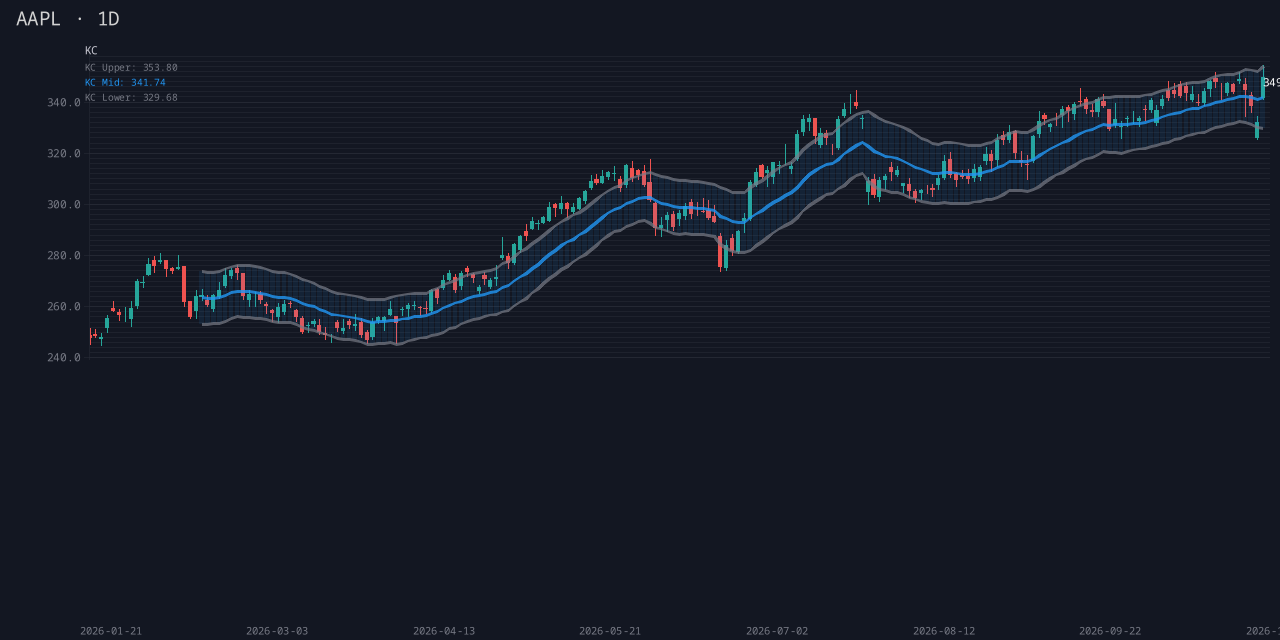
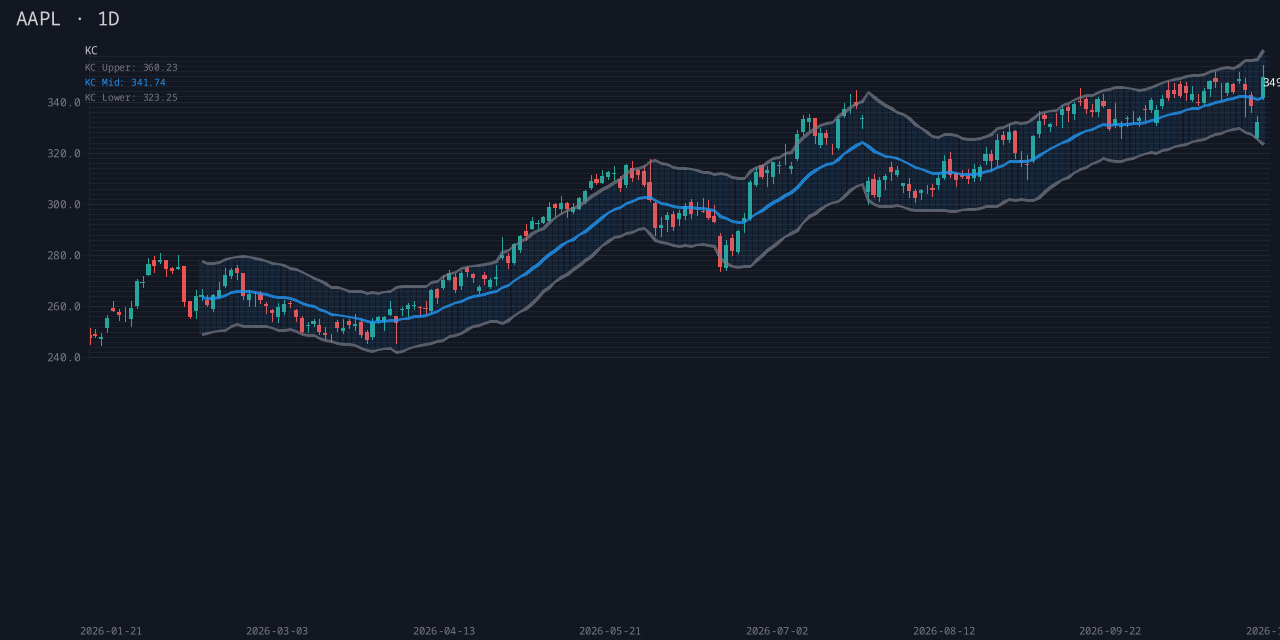
docs: ADR-0018 na rule, TradingView defaults, anchoring; screenshots
- ADR-0018: windowed helpers skip na (Pine reference), ema/rma hold
  across na (marked unverified against a live chart), drift-free sums,
  timeframe parsing, the table of default changes, output-shape changes.
- Indicator reference: updated 'Values match TradingView' section and
  regenerated params (keltner atr_length, vwap anchor, ichimoku
  displacement, new defaults).
- Re-rendered all affected screenshots; keltner, stoch, roc, histvol,
  vwap, vwap_bands, ichimoku and pivot changed (supertrend, sar and the
  composites render identically on the AAPL sample).

diff --git a/examples/gen_docs.rs b/examples/gen_docs.rs
@@ -53,33 +53,45 @@ fn main() {
          `src/indicators/pine.rs` ([ADR-0018](/chartgen/decisions/0018-pine-semantics-for-indicators/)).\n\
          `ta.ema` and `ta.rma` seed with the SMA of the first `length` values. RSI, ATR\n\
          and DMI/ADX use Wilder's RMA. Bollinger Bands use the population standard\n\
-         deviation. Bars before an indicator has a full window are `null` (NaN), not\n\
-         partial values. With the same parameters and the same first bar, the values\n\
-         equal TradingView's built-ins. The community composites (`cipher_b`,\n\
-         `wavetrend`, `rsi_mfi_stoch`, `kalman_volume`) follow the Pine semantics of\n\
-         the `ta.*` calls in the scripts they port.\n\
+         deviation. Defaults are TradingView's. Bars before an indicator has seen\n\
+         `length` valid values are `null` (NaN), not partial values. With the same\n\
+         parameters and the same first bar, the values equal TradingView's built-ins.\n\
+         The community composites (`cipher_b`, `wavetrend`, `rsi_mfi_stoch`,\n\
+         `kalman_volume`) follow the Pine semantics of the `ta.*` calls in the scripts\n\
+         they port.\n\
+         \n\
+         Missing values (`na`) follow the Pine reference. Window functions (`sma`,\n\
+         `sum`, `stdev`, `highest`, `lowest`, ...) skip them and use the last `length`\n\
+         valid values, so a flat stochastic or a zero-range bar leaves no gap. EMA and\n\
+         RMA keep their state across a missing value and repeat the previous value;\n\
+         that case is not yet verified against a live TradingView chart.\n\
          \n\
          EMA and RMA are recursive, so a value depends on where the series starts.\n\
          Load enough history before the bars you compare (`warmup` in series mode)\n\
          so the start-up effect has decayed. Known differences:\n\
          \n\
-         - **Defaults.** Some defaults differ from TradingView's: `keltner` uses 20 / 1.5\n\
-         \x20 with the ATR length equal to `period` (TV: multiplier 2, ATR length 10);\n\
-         \x20 `stoch` smooths %K over 3 bars (TV: 1); `roc` uses 14 (TV: 9); `histvol` uses\n\
-         \x20 20 (TV: 10); `vwap_bands` uses 2 standard deviations (TV: 1); `wavetrend`\n\
-         \x20 uses the Cipher B lengths 9 / 12 / 3 (LazyBear: 10 / 21 / 4). Set the same\n\
-         \x20 parameters on both sides to compare.\n\
-         - **Anchoring.** `vwap` and `vwap_bands` accumulate from the first loaded bar\n\
-         \x20 (TV resets every session). `pivot` uses the previous bar (TV uses the\n\
-         \x20 previous higher-timeframe period).\n\
-         - **Ichimoku.** The leading spans are shifted 25 bars forward like TV's, but\n\
-         \x20 the 25 projected future bars are not drawn, and there is no lagging span.\n\
+         - **WaveTrend lengths.** `wavetrend` is the WaveTrend inside VuManChu Cipher B\n\
+         \x20 and keeps its lengths 9 / 12 / 3 (LazyBear's script: 10 / 21 / 4).\n\
+         - **Calendar periods.** `vwap` / `vwap_bands` anchors and `pivot` periods\n\
+         \x20 are UTC days, ISO weeks, months and years of the bar times. TradingView\n\
+         \x20 uses the exchange session and time zone, which can differ for non-UTC\n\
+         \x20 markets. On daily and higher charts the `session` anchor resets on every\n\
+         \x20 bar, as TradingView's `timeframe.change(\"D\")` does. Without bar timestamps\n\
+         \x20 VWAP never resets and pivots stay empty.\n\
+         - **Pivots.** The higher-timeframe high / low / close comes from the loaded\n\
+         \x20 chart bars. Every period is drawn (TradingView shows the last 15), and only\n\
+         \x20 P, R1, S1, R2 and S2.\n\
+         - **Ichimoku.** The leading spans are shifted `displacement - 1` bars forward,\n\
+         \x20 and the lagging span the same distance back. The cloud projected past the\n\
+         \x20 last bar is not drawn yet.\n\
          - **Intrabar data.** The volume profiles (`volume_profile`, `session_vp`,\n\
          \x20 `hvn_lvn`, `naked_poc`, `tpo`) and `cvd` spread each bar's volume over its\n\
          \x20 range. TradingView builds them from lower-timeframe data, so they are\n\
          \x20 approximations.\n\
          - **Long warmups.** `kalman_volume` normalises by a 200-bar standard deviation\n\
          \x20 and needs about 280 bars before its first value.\n\
+         - **Unknown timeframe.** `histvol` needs the timeframe to annualize. When it\n\
+         \x20 is unknown, the line stays empty.\n\
          \n",
     );
 

diff --git a/website/src/content/docs/reference/indicators.md b/website/src/content/docs/reference/indicators.md
@@ -22,33 +22,45 @@ Indicator math follows Pine Script v5 semantics, implemented once in
 `src/indicators/pine.rs` ([ADR-0018](/chartgen/decisions/0018-pine-semantics-for-indicators/)).
 `ta.ema` and `ta.rma` seed with the SMA of the first `length` values. RSI, ATR
 and DMI/ADX use Wilder's RMA. Bollinger Bands use the population standard
-deviation. Bars before an indicator has a full window are `null` (NaN), not
-partial values. With the same parameters and the same first bar, the values
-equal TradingView's built-ins. The community composites (`cipher_b`,
-`wavetrend`, `rsi_mfi_stoch`, `kalman_volume`) follow the Pine semantics of
-the `ta.*` calls in the scripts they port.
+deviation. Defaults are TradingView's. Bars before an indicator has seen
+`length` valid values are `null` (NaN), not partial values. With the same
+parameters and the same first bar, the values equal TradingView's built-ins.
+The community composites (`cipher_b`, `wavetrend`, `rsi_mfi_stoch`,
+`kalman_volume`) follow the Pine semantics of the `ta.*` calls in the scripts
+they port.
+
+Missing values (`na`) follow the Pine reference. Window functions (`sma`,
+`sum`, `stdev`, `highest`, `lowest`, ...) skip them and use the last `length`
+valid values, so a flat stochastic or a zero-range bar leaves no gap. EMA and
+RMA keep their state across a missing value and repeat the previous value;
+that case is not yet verified against a live TradingView chart.
 
 EMA and RMA are recursive, so a value depends on where the series starts.
 Load enough history before the bars you compare (`warmup` in series mode)
 so the start-up effect has decayed. Known differences:
 
-- **Defaults.** Some defaults differ from TradingView's: `keltner` uses 20 / 1.5
-  with the ATR length equal to `period` (TV: multiplier 2, ATR length 10);
-  `stoch` smooths %K over 3 bars (TV: 1); `roc` uses 14 (TV: 9); `histvol` uses
-  20 (TV: 10); `vwap_bands` uses 2 standard deviations (TV: 1); `wavetrend`
-  uses the Cipher B lengths 9 / 12 / 3 (LazyBear: 10 / 21 / 4). Set the same
-  parameters on both sides to compare.
-- **Anchoring.** `vwap` and `vwap_bands` accumulate from the first loaded bar
-  (TV resets every session). `pivot` uses the previous bar (TV uses the
-  previous higher-timeframe period).
-- **Ichimoku.** The leading spans are shifted 25 bars forward like TV's, but
-  the 25 projected future bars are not drawn, and there is no lagging span.
+- **WaveTrend lengths.** `wavetrend` is the WaveTrend inside VuManChu Cipher B
+  and keeps its lengths 9 / 12 / 3 (LazyBear's script: 10 / 21 / 4).
+- **Calendar periods.** `vwap` / `vwap_bands` anchors and `pivot` periods
+  are UTC days, ISO weeks, months and years of the bar times. TradingView
+  uses the exchange session and time zone, which can differ for non-UTC
+  markets. On daily and higher charts the `session` anchor resets on every
+  bar, as TradingView's `timeframe.change("D")` does. Without bar timestamps
+  VWAP never resets and pivots stay empty.
+- **Pivots.** The higher-timeframe high / low / close comes from the loaded
+  chart bars. Every period is drawn (TradingView shows the last 15), and only
+  P, R1, S1, R2 and S2.
+- **Ichimoku.** The leading spans are shifted `displacement - 1` bars forward,
+  and the lagging span the same distance back. The cloud projected past the
+  last bar is not drawn yet.
 - **Intrabar data.** The volume profiles (`volume_profile`, `session_vp`,
   `hvn_lvn`, `naked_poc`, `tpo`) and `cvd` spread each bar's volume over its
   range. TradingView builds them from lower-timeframe data, so they are
   approximations.
 - **Long warmups.** `kalman_volume` normalises by a 200-bar standard deviation
   and needs about 280 bars before its first value.
+- **Unknown timeframe.** `histvol` needs the timeframe to annualize. When it
+  is unknown, the line stays empty.
 
 ## Overlays
 
@@ -113,7 +125,8 @@ Keltner Channels — ATR-based volatility bands
 | Param | Type | Default | Description |
 |-------|------|---------|-------------|
 | `period` | `integer` | `20` |  |
-| `multiplier` | `number` | `1.5` |  |
+| `multiplier` | `number` | `2.0` |  |
+| `atr_length` | `integer` | `10` | ATR length for the band width |
 
 ![keltner sample render](../../../assets/indicators/keltner.png)
 
@@ -131,7 +144,13 @@ Donchian Channels — breakout trading bands
 
 ### `vwap`
 
-Volume Weighted Average Price — intraday anchor
+Volume Weighted Average Price — anchored to the session, week or month
+
+**Parameters:**
+
+| Param | Type | Default | Description |
+|-------|------|---------|-------------|
+| `anchor` | `string` | `session` | Reset period: UTC day (session), ISO week, calendar month, or never |
 
 ![vwap sample render](../../../assets/indicators/vwap.png)
 
@@ -143,7 +162,8 @@ VWAP Bands — standard deviation bands around VWAP
 
 | Param | Type | Default | Description |
 |-------|------|---------|-------------|
-| `std_dev` | `number` | `2.0` |  |
+| `std_dev` | `number` | `1.0` |  |
+| `anchor` | `string` | `session` | Reset period: UTC day (session), ISO week, calendar month, or never |
 
 ![vwap_bands sample render](../../../assets/indicators/vwap_bands.png)
 
@@ -187,6 +207,7 @@ Ichimoku Cloud — trend, support/resistance, momentum
 | `tenkan` | `integer` | `9` |  |
 | `kijun` | `integer` | `26` |  |
 | `senkou_b` | `integer` | `52` |  |
+| `displacement` | `integer` | `26` | Leading spans are drawn displacement - 1 bars ahead, the lagging span (close) as many bars back |
 
 ![ichimoku sample render](../../../assets/indicators/ichimoku.png)
 
@@ -200,7 +221,7 @@ Heikin Ashi — smoothed trend candles
 
 ### `pivot`
 
-Pivot Points — support/resistance from prior bar
+Pivot Points Standard (Traditional) — levels from the previous higher-timeframe period
 
 **Aliases:** `pivot_points`
 
@@ -532,7 +553,7 @@ Slow Stochastic — overbought/oversold oscillator
 | Param | Type | Default | Description |
 |-------|------|---------|-------------|
 | `period` | `integer` | `14` |  |
-| `k_smooth` | `integer` | `3` |  |
+| `k_smooth` | `integer` | `1` |  |
 | `d_smooth` | `integer` | `3` |  |
 
 ![stoch sample render](../../../assets/indicators/stoch.png)
@@ -575,7 +596,7 @@ Rate of Change — momentum percentage
 
 | Param | Type | Default | Description |
 |-------|------|---------|-------------|
-| `period` | `integer` | `14` |  |
+| `period` | `integer` | `9` |  |
 
 ![roc sample render](../../../assets/indicators/roc.png)
 
@@ -647,7 +668,7 @@ Historical Volatility — annualized log-return std dev
 
 | Param | Type | Default | Description |
 |-------|------|---------|-------------|
-| `period` | `integer` | `20` |  |
+| `period` | `integer` | `10` |  |
 
 ![histvol sample render](../../../assets/indicators/histvol.png)
 

diff --git a/website/src/content/docs/decisions/0018-pine-semantics-for-indicators.md b/website/src/content/docs/decisions/0018-pine-semantics-for-indicators.md
@@ -63,17 +63,54 @@ those semantics. `indicator::ema`, `sma`, `highest`, `lowest` and
 **NaN rule (Pine `na`).** Warmup values are NaN (serialized as `null`),
 never 0 and never a partial window. Non-finite input counts as NaN.
 
-- The recursive smoothers (`ta.ema`, `ta.rma`) seed with the SMA of the
-  first `n` valid values. When an input is NaN, that bar's output is NaN,
-  the state is kept, and the recursion continues on the next valid bar.
 - Windowed helpers (`sma`, `sum`, `wma`, `stdev`, `dev`, `highest`,
-  `lowest`, ...) are NaN while any NaN is inside the window.
+  `lowest`, ...) ignore NaN values, as the Pine reference documents for
+  `ta.sma`, `ta.highest`, `ta.lowest`, `ta.stdev`, `math.sum` and
+  `ta.mfi`. They compute over the last `n` valid values and are NaN only
+  until `n` valid values have been seen. A NaN bar therefore still gets
+  the value of the previous `n` valid inputs, so a zero-range stochastic,
+  a Cipher B bar with `high == low` or a WaveTrend bar with `d == 0`
+  leaves no gap.
+- The recursive smoothers (`ta.ema`, `ta.rma`) seed with the SMA of the
+  first `n` valid values. On a NaN input they keep their state and repeat
+  the previous value (no gap). **This behaviour is unverified against a
+  live TradingView chart**; the Pine reference only says these functions
+  ignore `na`.
+- Running sums are re-summed exactly every `n` updates and are exactly 0
+  when every value in the window is 0. Zero tests on sums use a relative
+  epsilon (`|x| <= 1e-12 * scale`), so `ta.mfi` and CMF do not turn float
+  residue (seen as 1.65e-8 at BTC scale) into a value.
 - Division by zero is NaN. For example, a flat Williams %R or stochastic
   is NaN, not 0. `ta.rsi` is the exception: as in Pine, it returns 100
   when the average loss is 0 and 0 when the average gain is 0.
 - Where a script relies on Pine's `nz()` or on comparisons with `na`
   being false, the port does the same. Examples: the Schaff Trend Cycle
-  in Cipher B, the Kalman filter state in KVF, and bar 0 of `ta.mfi`.
+  in Cipher B, the Kalman filter state in KVF, bar 0 of `ta.mfi`, and the
+  previous bands in `ta.supertrend`.
+
+**Timeframe and calendar.** HV annualization, VWAP anchors and pivot
+periods need the chart timeframe. It comes from `data.interval`, parsed
+in any letter case and multiple (`1D`, `1W`, `2w`; a capital `M` means
+months), else from the spacing of the bar times. An unknown timeframe
+stays unknown: HV is NaN, it is not treated as intraday. Calendar
+periods are UTC days, ISO weeks, months and years of the bar times.
+
+**Defaults are TradingView's.** Defaults are part of the MCP contract, so
+these changes are listed explicitly:
+
+| Indicator | Parameter | Before | Now (TradingView) |
+|---|---|---|---|
+| `keltner` | `multiplier` | 1.5 | 2.0 |
+| `keltner` | `atr_length` (new) | ATR length = `period` | 10 |
+| `stoch` | `k_smooth` | 3 | 1 |
+| `roc` | `period` | 14 | 9 |
+| `histvol` | `period` | 20 | 10 |
+| `vwap_bands` | `std_dev` | 2.0 | 1.0 |
+| `vwap`, `vwap_bands` | `anchor` (new) | none (from the first bar) | `session` |
+| `ichimoku` | `displacement` (new) | not shifted | 26 |
+
+`wavetrend` keeps the VuManChu Cipher B lengths 9 / 12 / 3, because it is
+the Cipher B component; LazyBear's standalone script uses 10 / 21 / 4.
 
 **The `ta` crate is dropped.** No indicator uses it any more, so it is
 removed from `Cargo.toml`.
@@ -86,9 +123,9 @@ defaults and chartgen-specific signal filters, such as Cipher B's
 
 Remaining known differences are listed on the
 [indicator reference](/chartgen/reference/indicators/#values-match-tradingview).
-They are defaults that differ from TradingView's, VWAP and pivot
-anchoring, Ichimoku's future projection, intrabar-based profiles, and
-long warmups.
+They are UTC calendar periods instead of exchange sessions, pivots built
+from the loaded bars, the cloud projected past the last bar,
+intrabar-based profiles, and long warmups.
 
 ### Consequences
 
@@ -100,17 +137,25 @@ long warmups.
   values, cover every primitive. The `ta` dependency is gone.
 - Bad, **values change for existing users**. Every ported indicator
   returns different numbers, most visibly early in a series:
-  - Warmup bars are now `null`.
+  - Warmup bars are now `null`. A NaN inside a series no longer creates
+    a gap.
   - RSI, ATR, ADX and Supertrend differ for a long time, because RMA
     replaces EMA.
   - The Stochastic %K/%D are SMA-smoothed.
-  - The historical-volatility annualization is `sqrt(365)` (TV) instead
-    of `sqrt(252)`.
-  - Ichimoku's leading spans are drawn 25 bars later.
-  - Parabolic SAR and Supertrend start the way `ta.sar` and
-    `ta.supertrend` do.
+  - The historical-volatility annualization is `sqrt(365 / per)` (TV)
+    instead of `sqrt(252)`.
+  - Ichimoku's leading spans are drawn 25 bars later, and it has a new
+    "Lagging Span" line.
+  - VWAP resets every session by default, and pivots come from the
+    previous day / week / month / year instead of the previous bar.
+  - The new defaults above.
   - Alerts and signals that read these values, such as RSI thresholds or
     Cipher B dots, can fire on different bars. Saved alert thresholds
     may need review.
-- Bad: short histories show less. An indicator needs a full window before
-  its first value. KVF, for example, needs about 280 bars.
+- Bad, output shape: Parabolic SAR has no dot on bar 0 (`ta.sar` is `na`
+  there), and Supertrend draws nothing on bar 0 or during the ATR
+  warmup. KVF draws no dots until its 200-bar normalisation has data,
+  where it used to draw 0-valued placeholder dots. Ichimoku has one more
+  line.
+- Bad: short histories show less. An indicator needs `length` valid
+  values before its first value. KVF, for example, needs about 280 bars.
